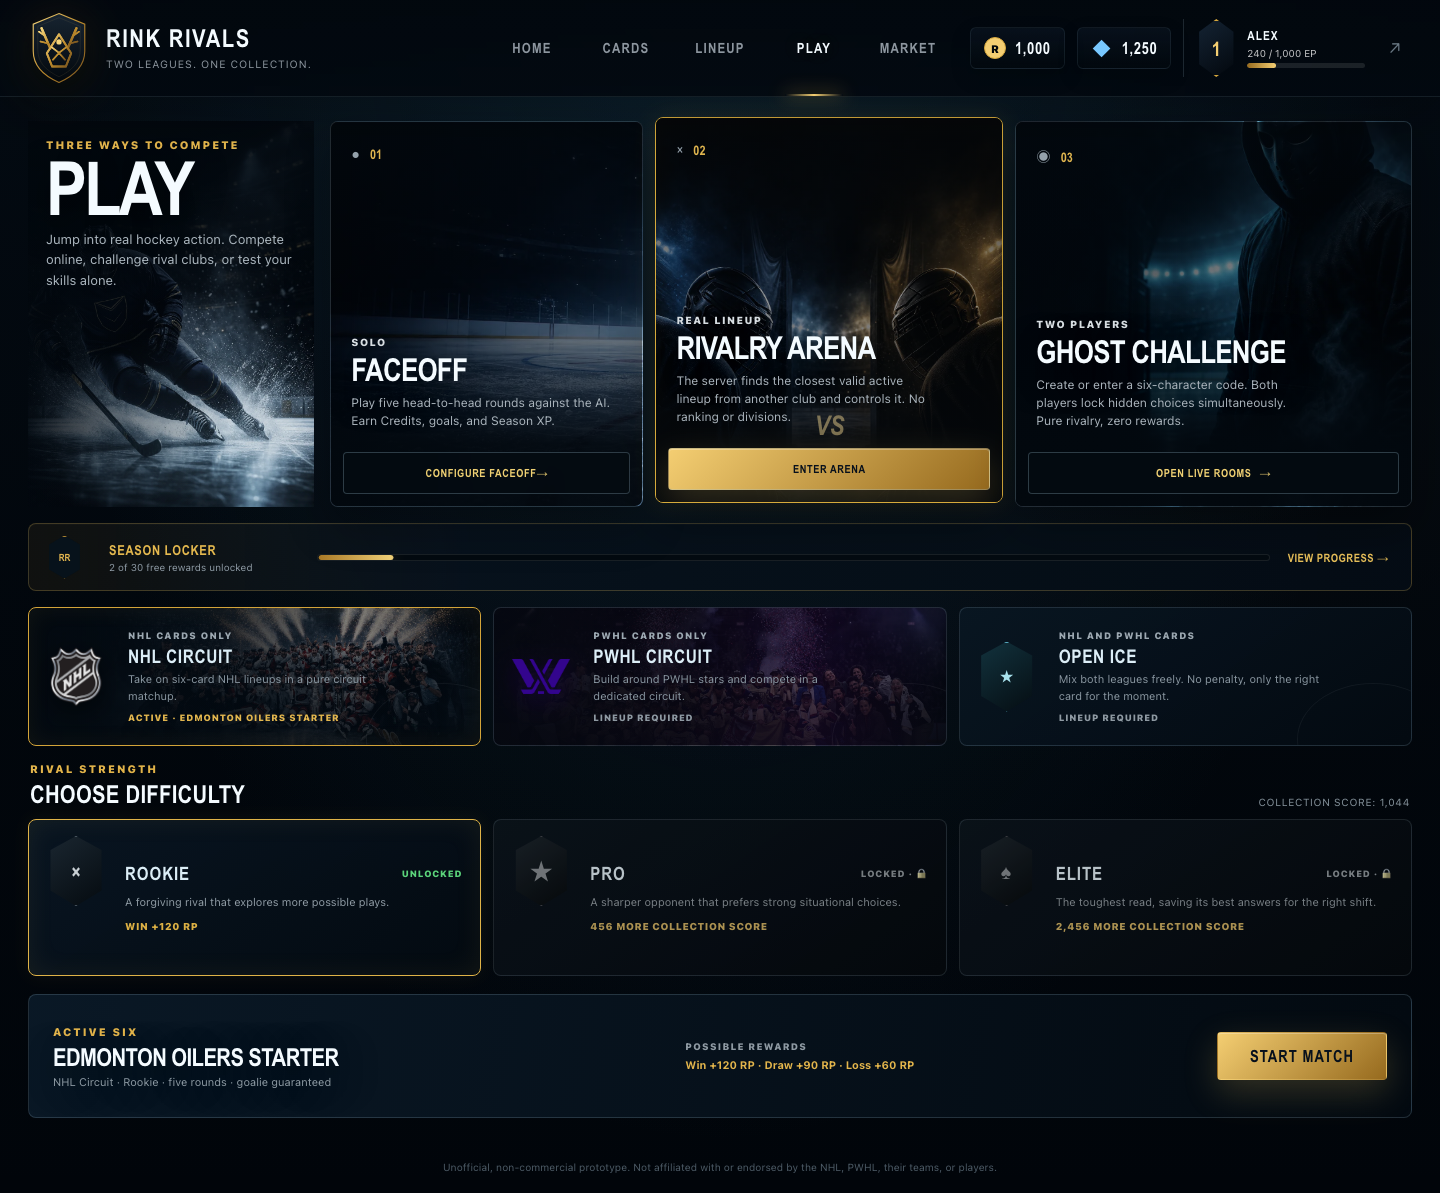
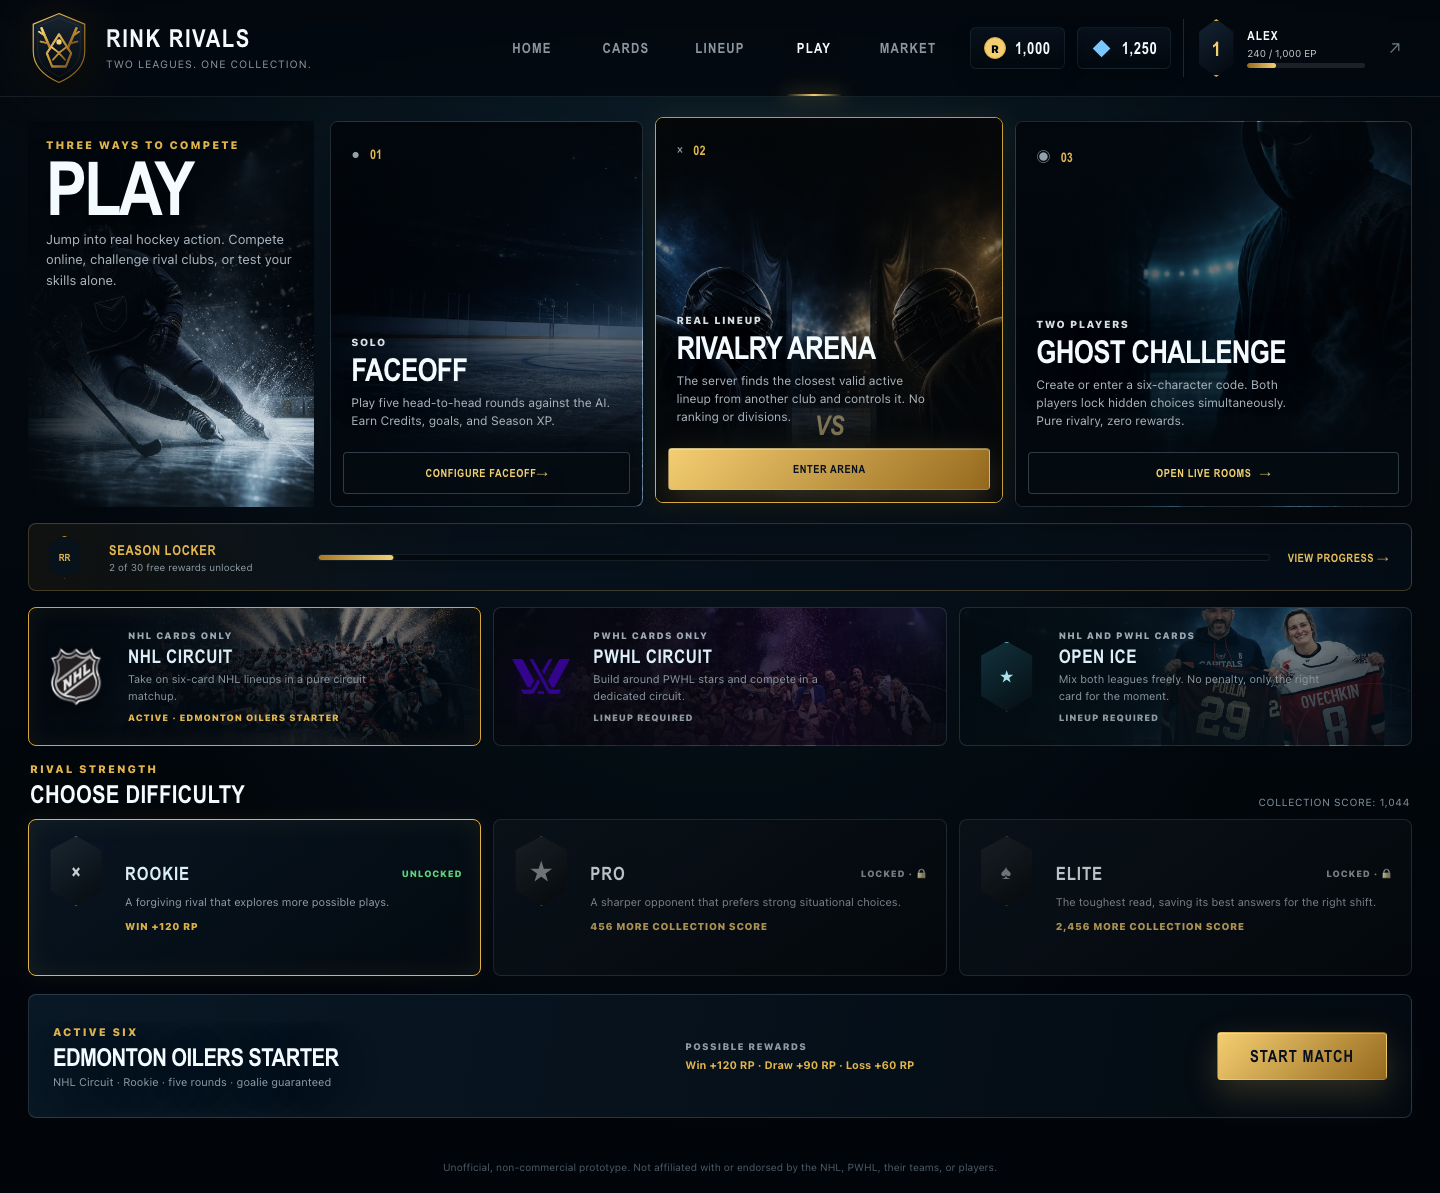
improving UI

Changed region(s): [[0.8125, 0.4962, 0.9688, 0.6203]]

diff --git a/src/features/play/PlayScreen.module.css b/src/features/play/PlayScreen.module.css
@@ -71,6 +71,12 @@
     linear-gradient(0deg, rgb(5 8 16 / 74%), transparent 78%),
     url("/assets/ui/play-pwhl-circuit.webp") center 58% / cover no-repeat;
 }
+.openice {
+  background:
+    linear-gradient(90deg, rgb(3 12 18 / 97%) 0%, rgb(4 15 22 / 82%) 42%, rgb(5 27 38 / 44%) 72%, rgb(3 11 17 / 64%) 100%),
+    linear-gradient(0deg, rgb(3 12 18 / 72%), transparent 78%),
+    url("/assets/ui/play-open-ice-circuit.webp") center 52% / cover no-repeat;
+}
 .circuitCard::after { position: absolute; right: -38px; bottom: -50px; width: 150px; height: 110px; border: 1px solid rgb(255 255 255 / 5%); border-radius: 50%; content: ""; }
 .circuitCrest { display: grid; width: 58px; height: 70px; place-items: center; border: 1px solid #8c744c; color: #d8dde0; background: linear-gradient(145deg, #1c2832, #050b10); clip-path: polygon(50% 0, 94% 20%, 94% 78%, 50% 100%, 6% 78%, 6% 20%); font-family: var(--font-display); font-size: .74rem; font-weight: 950; }
 .officialCrest { border: 0; background: transparent; clip-path: none; }
